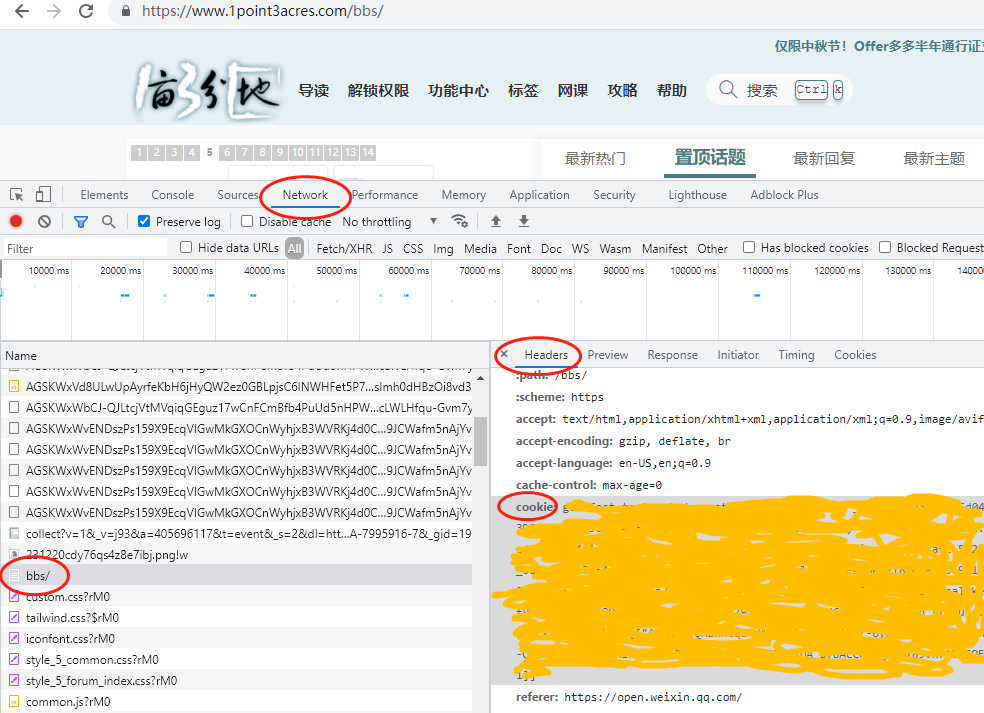
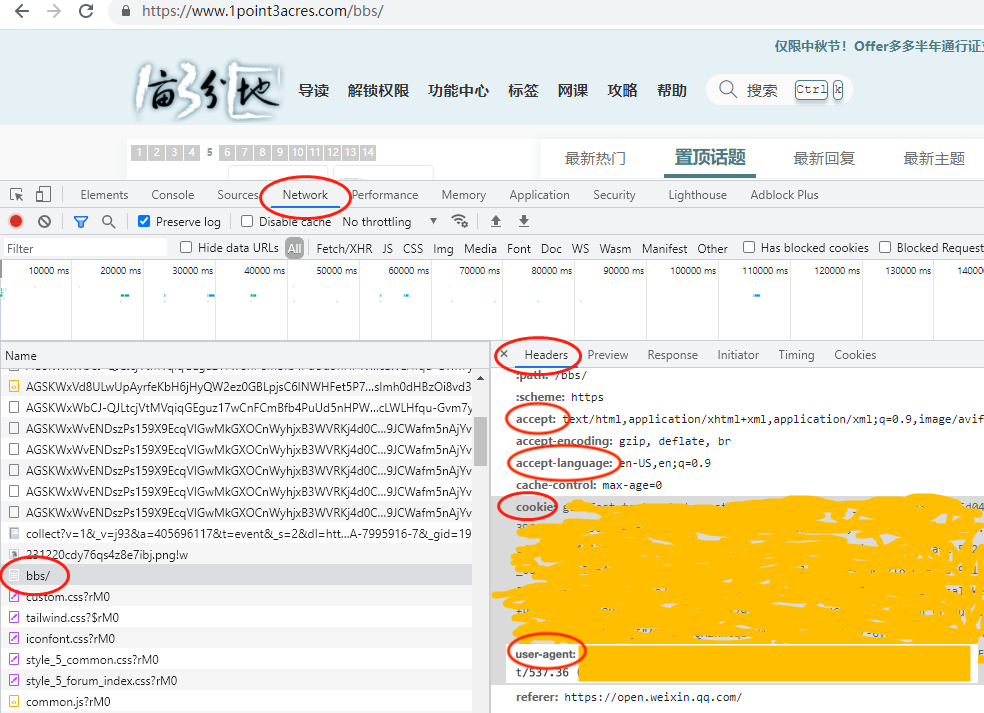
Add advanced header settings
增加更详细的header设置，减少被检测/封号概率

Changed region(s): [[0.4878, 0.864, 1.0, 0.9565], [0.5183, 0.5554, 0.6402, 0.6788]]

diff --git a/src/raw_requests.py b/src/raw_requests.py
@@ -11,6 +11,8 @@ import os
 import http.cookies
 
 user_agent = "Mozilla/5.0 (Windows NT 10.0; Win64; x64; rv:72.0) Gecko/20100101 Firefox/72.0"
+accept = "image/avif,image/webp,image/apng,image/svg+xml,image/*,*/*;q=0.8"
+accept_language = "en-US,en;q=0.5"
 # user_agent = "Mozilla/5.0 (Windows NT 10.0; Win64; x64) AppleWebKit/537.36 (KHTML, like Gecko) Chrome/91.0.4472.124 Safari/537.36"
 
 referer = "https://www.1point3acres.com/bbs/"
@@ -57,10 +59,13 @@ def check_status_code(response: requests.Response, error_desc: str = ""):
         exit(-1)
 
 
-def login_cookie(cookie: str) -> bool:
-    global session
+def login_settings(login_settings: str) -> bool:
+    global session, user_agent, accept, accept_language
     session = requests.session()
-    session.cookies.update(http.cookies.SimpleCookie(cookie))
+    session.cookies.update(http.cookies.SimpleCookie(login_settings["cookie"]))
+    for e in ["user_agent", "accept", "accept_language"]:
+        if e in login_settings and login_settings[e] != f"replace_with_your_{e}":
+            globals()[e] = login_settings[e]
     return True
 
 
@@ -68,6 +73,8 @@ def get_login_info_() -> (str, str):
     global session
     header = {
         "User-Agent": user_agent,
+        "Accept": accept,
+        "Accept_Language": accept_language,
         "Referer": referer,
     }
     session = requests.session()
@@ -113,6 +120,8 @@ def get_login_info_v2() -> str:
     # global proxy
     header = {
         "User-Agent": user_agent,
+        "Accept": accept,
+        "Accept_Language": accept_language,
         "Referer": referer,
     }
     session = requests.session()
@@ -143,6 +152,8 @@ def login(username: str, password_hashed: str, form_hash: str, login_hash: str, 
     print("try login...")
     header = {
         "User-Agent": user_agent,
+        "Accept": accept,
+        "Accept_Language": accept_language,
         'Content-Type': 'application/x-www-form-urlencoded',
     }
     # body = {
@@ -194,6 +205,8 @@ def login_v2(username: str, password_hashed: str, csrf_token: str, solver) -> bo
     print("try login...")
     header = {
         "User-Agent": user_agent,
+        "Accept": accept,
+        "Accept_Language": accept_language,
         'Content-Type': 'application/x-www-form-urlencoded',
         'Referer': 'https://auth.1point3acres.com/login',
         'Origin': 'https://auth.1point3acres.com',
@@ -247,6 +260,8 @@ def get_checkin_info_() -> (str, str):
     sec_hash = ""
     header = {
         "User-Agent": user_agent,
+        "Accept": accept,
+        "Accept_Language": accept_language,
         "Referer": referer
     }
     response = session.get(get_checkin_url, headers=header)
@@ -277,6 +292,8 @@ def get_checkin_info_() -> (str, str):
 def do_daily_checkin_(solver, form_hash: str, sec_hash: str = "S00") -> bool:
     header = {
         "User-Agent": user_agent,
+        "Accept": accept,
+        "Accept_Language": accept_language,
         "Content-Type": "application/x-www-form-urlencoded",
         "Referer": "https://www.1point3acres.com/bbs/dsu_paulsign-sign.html"
     }
@@ -329,6 +346,8 @@ def get_daily_task_answer() -> (str, str, str):
     print("get question...")
     header = {
         "User-Agent": user_agent,
+        "Accept": accept,
+        "Accept_Language": accept_language,
         "Referer": referer
     }
     response = session.get(get_question_url, headers=header)
@@ -381,6 +400,8 @@ def get_daily_task_answer() -> (str, str, str):
 def do_daily_question_(answer: str, solver, form_hash: str, sec_hash: str = "SA00") -> bool:
     header = {
         "User-Agent": user_agent,
+        "Accept": accept,
+        "Accept_Language": accept_language,
         "Referer": referer,
         "Content-Type": "application/x-www-form-urlencoded",
     }

diff --git a/src/service.py b/src/service.py
@@ -46,8 +46,8 @@ from twocaptcha import TwoCaptcha
 #         return result
 
 
-def daily_login_cookie(cookie: str):
-    return login_cookie(cookie)
+def daily_login_settings(settings: dict):
+    return login_settings(settings)
 
 
 def daily_login_v2(solver, username: str, password: str):
@@ -106,8 +106,8 @@ def daily_question(solver) -> bool:
     return do_daily_question_(answer=answer, solver=solver, form_hash=form_hash, sec_hash=sec_hash)
 
 
-def do_all_cookie(solver, cookie: str):
-    daily_login_cookie(cookie)
+def do_all_settings(solver, settings: dict):
+    daily_login_settings(settings)
     daily_checkin(solver)
     daily_question(solver)
     return
@@ -124,19 +124,19 @@ def do_all_password(solver, username: str, password: str):
 def main(from_file: bool = False):
     users = []
     api_key = ""
-    cookie_file = "../configure/cookie.json"
+    settings_file = "../configure/settings.json"
     password_file = "../configure/data.json"
     if (len(sys.argv) > 1):
-        cookie_file = sys.argv[1]
-    if os.path.exists(cookie_file):
-        fp = open(cookie_file)
+        settings_file = sys.argv[1]
+    if os.path.exists(settings_file):
+        fp = open(settings_file)
         data = json.load(fp)
         users = data["users"]
         api_key = data["api_key"]
         solver = TwoCaptcha(api_key)
         if api_key != "replace_with_your_api_key":
             for user in users:
-                do_all_cookie(solver, user["cookie"])
+                do_all_settings(solver, user)
             return
 
     fp = open(password_file)

diff --git a/README.md b/README.md
@@ -37,7 +37,7 @@
     ```
     
 * windows替代crontab方法
-    
+  
     将"auto_run_windows.bat"中D:"替换为你的盘，"D:\replace_with_path_to_repo"路径替换为你的仓库路径 "。
     
     ```bat
@@ -67,12 +67,14 @@
 
 这段时间逐渐有账户被要求强制微信扫码登录, 导致程序失效。
 
-增加了直接用cookie签到和答题的方式, 需要修改配置文件configure/cookie.json，把已登录的浏览器复制的cookie 粘贴到这个文件，api key和以前一样也需要替换。
+增加了直接用cookie签到和答题的方式, 需要修改配置文件configure/settings.json，把已登录的浏览器复制的header (user-agent, accept, accept-language, cookie) 粘贴到这个文件，api key和以前一样也需要替换。
 
-使用cookie.json 后，原先的data.json 就用不到了，所以不再需要配置。
+> user-agent, accept, accept-language 不填写将使用默认配置
+
+使用settings.json 后，原先的data.json 就用不到了，所以不再需要配置。
 
 <details>
-<summary> 如何找到cookie， F12 打开浏览器 console -> network 标签 -> 找到 bbs/ 请求 -> 查看具体的请求头 -> 找到cookie -> 复制cookie 后面的内容 </summary>
+<summary> header， F12 打开浏览器 console -> network 标签 -> 找到 bbs/ 请求 -> 查看具体的请求头 -> 找到cookie -> 复制 user-agent, accept, accept-language, cookie 后面的内容 </summary>
 
 ![](screenshots/cookie.png)
 </details>
